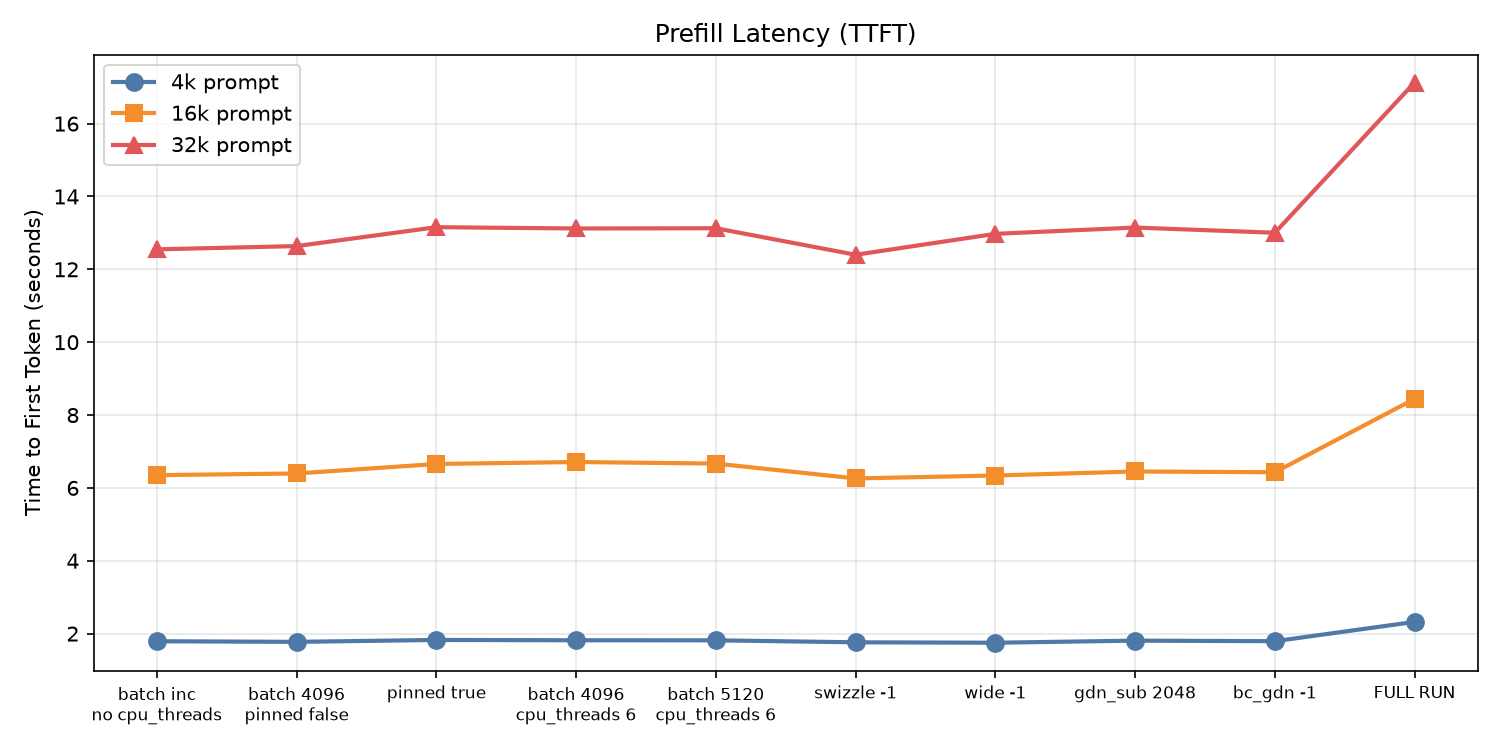
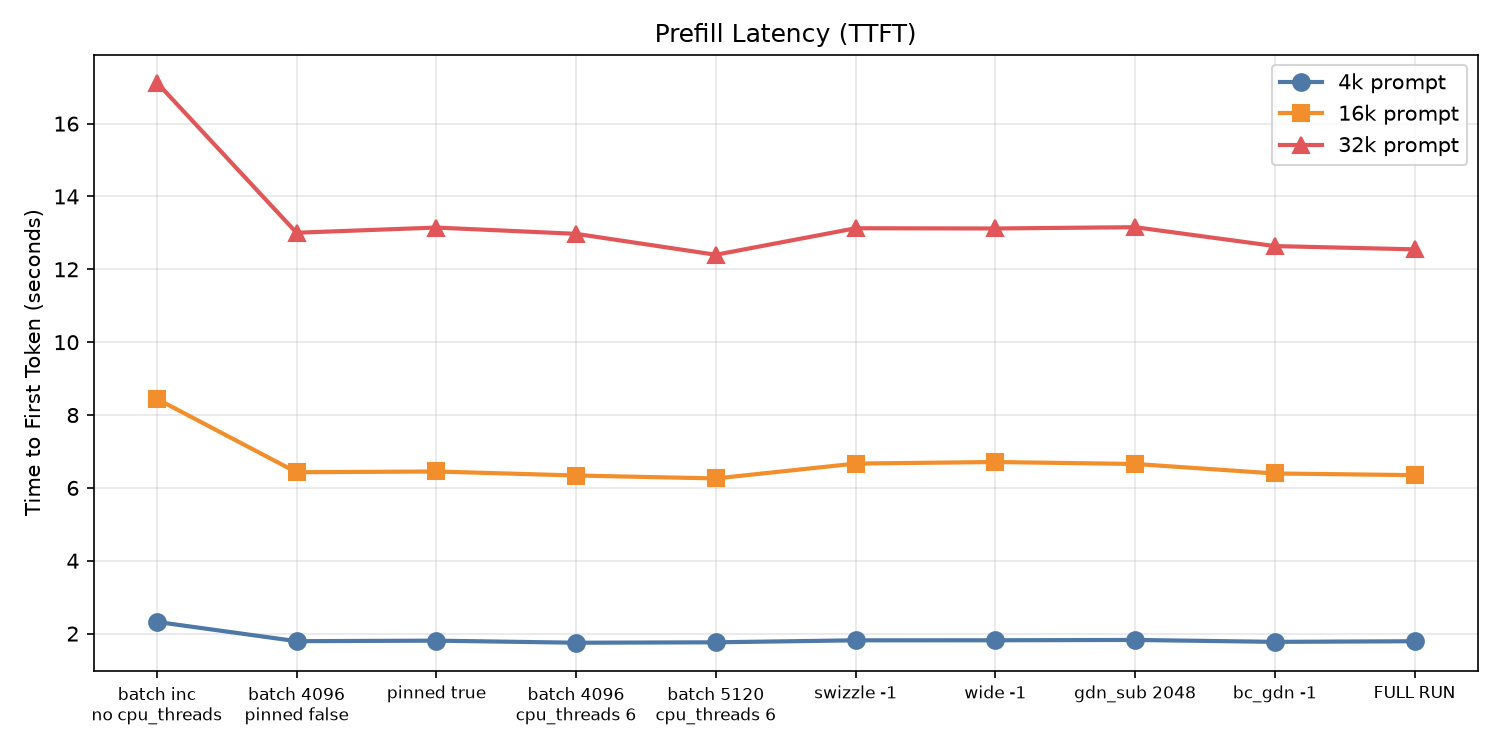
fix wrong label placement

diff --git a/plots/generate_graphs.py b/plots/generate_graphs.py
@@ -15,8 +15,7 @@ OUTPUT_DIR = "/home/willyhetland/Storage/code/moe-offload-bench"
 files = sorted([
     f for f in os.listdir(RESULTS_DIR)
     if f.startswith("20261115") and "qwen3-6-35b" in f
-])
-files.reverse()  # oldest first
+])  # ISO timestamp prefix -> chronological, oldest first
 
 runs = []
 for f in files:
